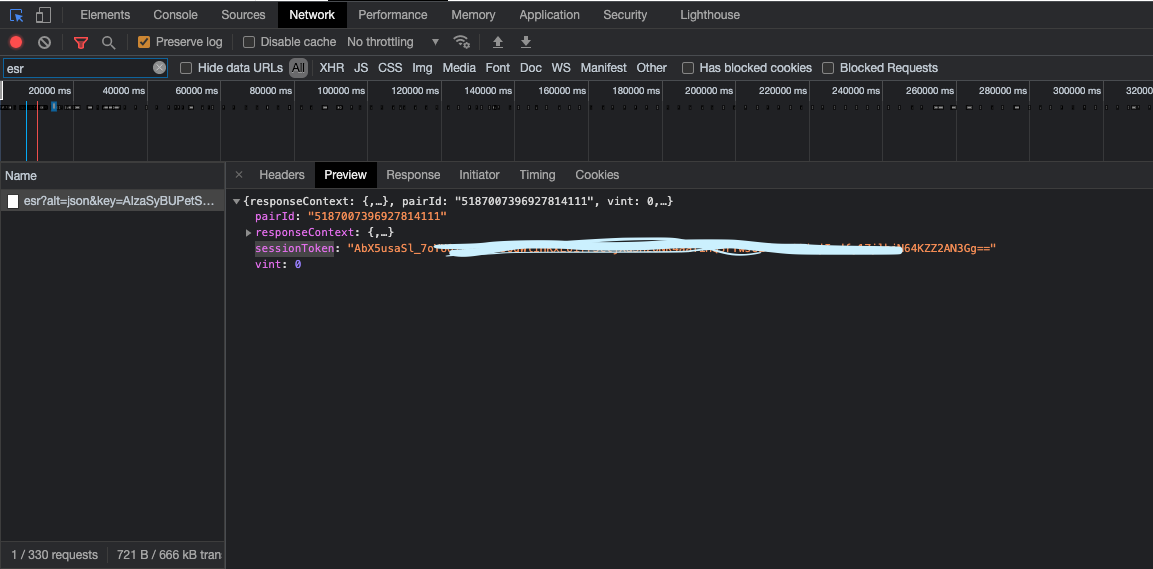
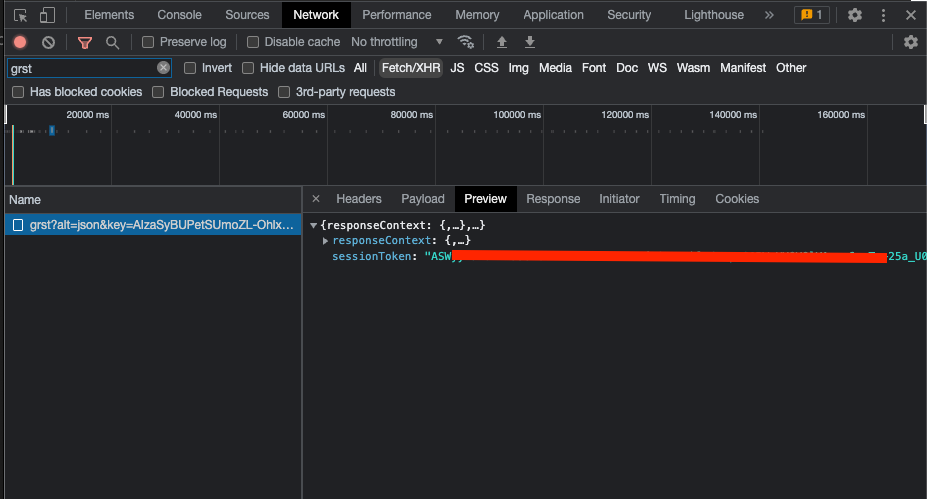
setEndScreen fixed

diff --git a/src/youtube-studio-api.js b/src/youtube-studio-api.js
@@ -241,6 +241,7 @@ async function getVideos(pageSize = 30) {
     _.set(template, 'pageSize', pageSize);
     _.set(template, 'context.user.delegationContext.externalChannelId', config.CHANNEL_ID);
     _.set(template, 'filter.and.operands[0].channelIdIs.value', config.CHANNEL_ID);
+    _.set(template, 'context.user.onBehalfOfUser', config.DELEGATED_SESSION_ID);
 
     return fetch(`${YT_STUDIO_URL}/youtubei/v1/creator/list_creator_videos?alt=json&key=${config.INNERTUBE_API_KEY}`, {
         method: 'POST',
@@ -341,6 +342,7 @@ async function setEndScreen(videoId, startMs, elements = []) {
 
     _.set(template, 'externalVideoId', videoId);
     _.set(template, 'context.user.onBehalfOfUser', config.DELEGATED_SESSION_ID);
+    _.set(template, 'context.request.sessionInfo.token', sessionToken);
 
     return fetch(`https://studio.youtube.com/youtubei/v1/video_editor/edit_video?alt=json&key=${config.INNERTUBE_API_KEY}`, {
         method: 'POST',

diff --git a/src/youtube-studio-api.spec.js b/src/youtube-studio-api.spec.js
@@ -107,6 +107,7 @@ describe('for authenticated user', () => {
 
     it('should list videos', async () => {
         const result = await getVideos(60)
+        console.log(result.videos.length)
         expect(result.videos.length).toBeGreaterThan(0)
     })
 
@@ -127,7 +128,7 @@ describe('for authenticated user', () => {
 
     describe('end screen', () => {
         it('should set end screen', async () => {
-            const videoLengthSec = 1404;
+            const videoLengthSec = 1271;
             const TWENTY_SEC_BEFORE_END_MS = (videoLengthSec - 20) * 1000
 
             const result = await setEndScreen(VIDEO_ID, TWENTY_SEC_BEFORE_END_MS, [

diff --git a/README.md b/README.md
@@ -225,11 +225,11 @@ Here's a list of required cookies:
 
 #### 3. Get `SESSION_TOKEN`
 
-If you plan to use `setMonetisation()` or `upload()` functions, you need to have `SESSION_TOKEN`.
+If you plan to use `setMonetisation()` or `upload()` or `setEndScreen()` functions, you need to have `SESSION_TOKEN`.
 
-**IMPORTANT**: Keep in mind, that you need to regenerate this value roughly each week.
+**IMPORTANT**: Keep in mind, that you need to regenerate this value **each day**.
 
-Use your dev tools to get the value of `SESSION_TOKEN`:
+Use your dev tools to get the value of `SESSION_TOKEN` (`/grst` API):
 
 ![](docs/images/sessionToken.png)
 
